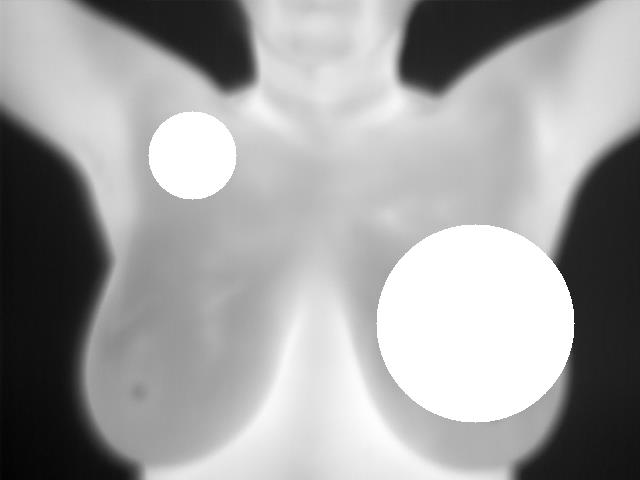
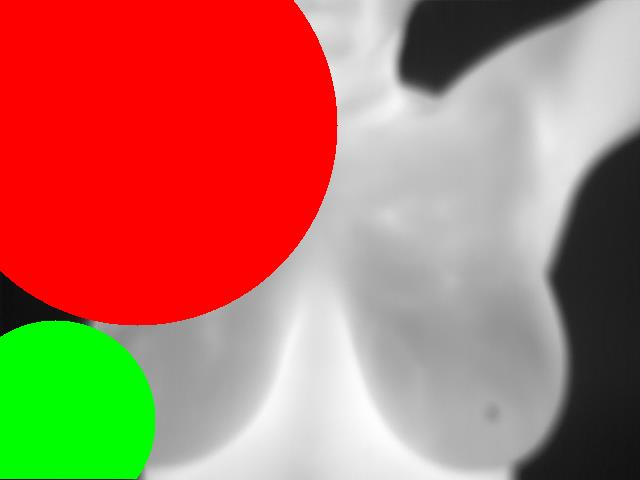
ainda sem um fitness bem definido [newfitness]

diff --git a/src/GATIS/Individual.java b/src/GATIS/Individual.java
@@ -2,6 +2,7 @@ package GATIS;
 
 
 import java.util.Random;
+import java.awt.Color;
 
 import image.Image;
 
@@ -9,15 +10,16 @@ public class Individual implements Comparable<Object>{
 	//CONSTANTS
 	final int decimalArraySize = 10;
 	final float[] interval = {0,45,140,200,256};
+	
 	//PROPERTIES
-
 	Circle c1;
 	Circle c2;
 	double score;
 	
 	//UTILITIES
 	Random r = new Random();
-	
+	Color RED = new Color(255, 0, 0);
+	Color GREEN = new Color(0, 255, 0);
 	
 	//METHODS
 	
@@ -41,18 +43,19 @@ public class Individual implements Comparable<Object>{
 		fitness(img);
 	}
 	
-	Individual(Circle l , Circle r, Image img){
+	Individual(Circle l , Circle r, Image img){ // constructor using circles as parameters
 		c1 = l;
 		c2 = r;
 		fitness(img);
 	}
 	
 	@Override
-	public int compareTo(Object o) {
+	public int compareTo(Object o) { // method compare, made to help sort the individuals grups
 		return (this.getScore() < ((Individual) o).getScore() ? -1 : (this.getScore() == ((Individual) o).getScore() ? 0 : 1));
 	}
-	
-	public double getScore() {
+	 
+	// geters-----------------
+	public double getScore() { 
 		return score;
 	}
 	
@@ -62,23 +65,23 @@ public class Individual implements Comparable<Object>{
 		else
 			return c2;
 	}
+	//------------------------
 	
 	void fitness(Image img) {
 		//COLORS: 0 15 30 | 45 60 75 90 105 | 120 135 150 165 180 195	| 210 225 240 255
 		//WEIGHT:  -100          50                     100                   -100
 		
-
-		
-		int bw = -20;
+		int bw = -250;
 		int sw = 5;
-		int hw = 20;
-		int ww = -100;
-		int interw = 2;
+		int hw = 100;
+		int ww = -200;
+		int interw = -50;
 		int wt = bw+sw+hw+ww;
+		
 		int[] vol = new int[4];
 		
 		vol = getPixelVol(img);
-		
+
 		int b = vol[0]; 
 		int s = vol[1];
 		int h = vol[2];
@@ -86,8 +89,7 @@ public class Individual implements Comparable<Object>{
 		int inter = interceptVol(img);
 		int total = vol[0]+vol[1]+vol[2]+vol[3];
 		
-		score = /*Math.abs*/(bw*b+sw*s+hw*h+ww*w+interw*inter);
-		
+		score = total - (bw*b+sw*s+hw*h+ww*w+interw*inter);	
 		
 		
 		
@@ -111,10 +113,11 @@ public class Individual implements Comparable<Object>{
 			
 		int sum = 0 ;
 		
-		for(int i = 0 ; i < img.getHeight(); i++) {
+		for(int i = 0 ; i < img.getHeight(); i++) {  //using the "for" structures to run by the image as 
+													//"i" and "j" being the pixel coordinates.
 			for(int j = 0 ; j < img.getWidth(); j++) {
 				
-				if(intercept(j,i))
+				if(intercept(j,i))					//verify if the coordinates are intercepted inside the two circles 
 					sum++;
 			}
 		}
@@ -125,9 +128,10 @@ public class Individual implements Comparable<Object>{
 		
 		int[] sum= new int[4];
 		double pix;
-		for(int i = 0; i < img.getHeight()-1; i++) {
+		for(int i = 0; i < img.getHeight()-1; i++) {        //using the "for" structures to run by the image as 
+															//"i" and "j" being the pixel coordinates.
 			for(int j = 0 ; j < img.getWidth()-1; j++) {
-				if(contains(j,i)) {				
+				if(contains(j,i)) {									//verify if the coordinates are inside one of the circles 
 					pix = img.getPixel(j, i);
 					if(pix >= interval[0] && pix < interval[1]) {
 						sum[0]++;
@@ -147,20 +151,41 @@ public class Individual implements Comparable<Object>{
   
 	Boolean contains(int x, int y) {
 		
-		int rad1 = c1.getRadius()*c1.getRadius();
-		int cir1 = (x - c1.getX())*(x - c1.getX()) + (y - c1.getY())*(y - c1.getY());
+		int rad1 = c1.getRadius()*c1.getRadius();									   // calculate the r^2 from the circle (limit of the circle)
+		int cir1 = (x - c1.getX())*(x - c1.getX()) + (y - c1.getY())*(y - c1.getY());  // calculate of the center to the coordinates 
 		int rad2 = c2.getRadius()*c2.getRadius();
 		int cir2 = (x - c2.getX())*(x - c2.getX()) + (y - c2.getY())*(y - c2.getY());
 		
 		
-		if(cir1<=rad1 || cir2 <= rad2)
-			return true;
+		if(cir1<=rad1 || cir2 <= rad2)	// if the distance of the coordinates to the the center is smaller or equal they are 
+			return true;				// inside one of the circles, if the distance are greater
 		else
 			return false;
 	}
 	
-
+	Boolean containsL(int x, int y) {
+		
+		int rad1 = c1.getRadius()*c1.getRadius();									   // calculate the r^2 from the circle (limit of the circle)
+		int cir1 = (x - c1.getX())*(x - c1.getX()) + (y - c1.getY())*(y - c1.getY());  // calculate of the center to the coordinates 		
+		
+		if(cir1<=rad1)	// if the distance of the coordinates to the the center is smaller or equal they are 
+			return true;				// inside one of the circles, if the distance are greater
+		else
+			return false;
+	}
 	
+	Boolean containsR(int x, int y) {
+		
+		int rad2 = c2.getRadius()*c2.getRadius();
+		int cir2 = (x - c2.getX())*(x - c2.getX()) + (y - c2.getY())*(y - c2.getY());
+		
+		
+		if(cir2 <= rad2)	// if the distance of the coordinates to the the center is smaller or equal they are 
+			return true;				// inside one of the circles, if the distance are greater
+		else
+			return false;
+	}
+		
 	void draw(Image img ) {
 		
 		int h = img.getHeight();
@@ -168,8 +193,10 @@ public class Individual implements Comparable<Object>{
 		
 		for(int i = 0 ; i < h-1; i++) {
 			for(int j = 0 ; j < w-1 ; j++) {
-				if(this.contains(j,i))
-					img.setPixelAllBands(j, i, 255);
+				if(this.containsL(j,i))
+					img.setPixel(j,i,RED);
+				if(this.containsR(j,i))
+					img.setPixel(j,i,GREEN);
 			}
 		}
 	}

diff --git a/src/GATIS/MyMath.java b/src/GATIS/MyMath.java
@@ -1,11 +1,11 @@
 package GATIS;
 
-public class MyMath {
+public class MyMath {								//Class of math's operations that we will use
 
 
-	final static int decimalArraySize = 10;
+	final static int decimalArraySize = 10;			//number of bits 
 	
-	static int binaryToDecimal(int[] n) 
+	static int binaryToDecimal(int[] n) 			//transforms a binary number into decimal
     { 
 		
 		int[] num = new int[10];
@@ -25,9 +25,82 @@ public class MyMath {
 		//System.out.println(dec_value);	  
 	    return (dec_value); 
 	} 
-  
 	
-	static int[] decToBinary(int n) 
+	static float pow(int base, int pot) {
+		float r=base;
+		/*
+		for(int i = 0 ; i < pot-1 ; i++) {
+			r=r*r;
+		}*/
+		return (base^pot);
+	}
+	
+	static double converte_gray_dec(int[]gray)
+	{
+	    int[]bin = new int[decimalArraySize];
+	    int i= decimalArraySize-1;
+	    while(i>0)
+	    {
+	        if(i==(decimalArraySize-1))
+	        {
+	            bin[i]=gray[i];
+	        }
+	        else
+	        {
+	            bin[i]=(int) pow(gray[i],bin[i+1]);
+	        }
+	        i--;
+	    }
+	    bin[0] = gray[0];
+	    double dec =0;
+	    for(int h =0, j=(decimalArraySize-1); j>0; h++,j--)
+	    {
+	        dec += bin[j]*pow(2,h);
+	    }
+	    dec = dec/10000;
+	        return dec;
+
+	}
+	
+	static int[] converte_dec_gray(double x)
+	{
+	    float decf = (float) (x*1000);
+	    int dec = (int) decf;
+	    int[]bin = new int[decimalArraySize];
+	   /* if(dec>0)
+	        bin[0] =0;
+	    else
+	    {
+	        bin[0] = 1;
+	        dec = -dec;
+	    }*/
+	    for(int i =(decimalArraySize-1); i>0; i--)
+	    {
+	        bin[i] = dec%2;
+	        dec = dec/2;
+	    }
+
+	    int[]gray = new int[decimalArraySize];
+	    int i= decimalArraySize-1;
+	    while(i>0)
+	    {
+	        if(i==(decimalArraySize-1))
+	        {
+	            gray[i]=bin[i];
+	        }
+	        else
+	        {
+	            gray[i]=bin[i]^bin[i+1];
+	        }
+	        i--;
+	    }
+	    gray[0] = bin[0];
+
+
+	    return gray;
+	}
+	
+	static int[] decToBinary(int n) 				//transforms a decimal number into binary 
     { 
         // array to store binary number 
         int[] binaryNum = new int[decimalArraySize]; 
@@ -54,11 +127,14 @@ public class MyMath {
 	
 	public static void main(String[] args){ 
         int[] s = {0,0,0,1,1,0,0,1,0,0};
-        System.out.print( MyMath.binaryToDecimal(s));
+        double g = converte_gray_dec(s);
+        int[] a = converte_dec_gray(100);
+        
+        System.out.println(g);
+        
         for(int i = 0 ; i < decimalArraySize ; i++) {
-        //	System.out.print(MyMath.decToBinary(100)[i]);
+        	System.out.print(a[i]);
         }
-        	
         
     }
 	

diff --git a/src/GATIS/Circle.java b/src/GATIS/Circle.java
@@ -5,17 +5,18 @@ public class Circle {
 	final int decimalArraySize = 10;
 	
 	//ATTRIBUTES
-	int cX;
-	int[] bX = new int[decimalArraySize];
-	int cY;
-	int[] bY = new int[decimalArraySize];
-	int radius;
-	int[] bR = new int[decimalArraySize];
+	int cX;									//X - coordinate form the circle center
+	int[] bX = new int[decimalArraySize];	// conversion the cX variable to binary
+	int cY;									//Y - coordinate form the circle center
+	int[] bY = new int[decimalArraySize];	// conversion the cY variable to binary
+	
+	int radius;								// circules's radius length 
+	int[] bR = new int[decimalArraySize];	// conversion radius to binary
 	
 	
 	
 	
-	Circle(int x, int y, int r){
+	Circle(int x, int y, int r){			//constructor with decimal numbers parameters 
 		
 		cX = x;
 		bX = MyMath.decToBinary(cX);
@@ -26,14 +27,19 @@ public class Circle {
 
 	}
 	
-	Circle(int[] x, int[] y, int[] r){
+	Circle(int[] x, int[] y, int[] r){		//constructor with binary numbers parameters 
 		
-		
-		if(MyMath.binaryToDecimal(r) > 100) {
+
+		if(MyMath.binaryToDecimal(r) > 200) {
+			r = MyMath.decToBinary(200);
+		}
+		if(MyMath.binaryToDecimal(r) < 100) {
 			r = MyMath.decToBinary(100);
-		}if(MyMath.binaryToDecimal(y) < 75) {
-			y = MyMath.decToBinary(75);
-		}if(MyMath.binaryToDecimal(y) > 420) {
+		}
+		if(MyMath.binaryToDecimal(y) < 125) {
+			y = MyMath.decToBinary(125);
+		}
+		if(MyMath.binaryToDecimal(y) > 420) {
 			y = MyMath.decToBinary(420);
 		}
 		
@@ -45,7 +51,7 @@ public class Circle {
 		bR = r;
 	}
 	
-	Circle(Circle c){
+	Circle(Circle c){				//constructor with Circle's object parameter 
 		setX(c.getBx());
 		setY(c.getBy());
 		radius = c.getRadius();
@@ -55,6 +61,7 @@ public class Circle {
 		
 	}
 	
+	//getters
 	int getX() {
 		return cX;
 	}
@@ -79,6 +86,7 @@ public class Circle {
 		return bR;
 	}
 
+	//setters
 	void setX(int[] x) {
 		bX = x;
 		cX = MyMath.binaryToDecimal(x);

diff --git a/src/module-info.java b/src/module-info.java
@@ -1,3 +1,5 @@
 module GATIS {
 	requires uacari;
+	requires java.datatransfer;
+	requires java.desktop;
 }
